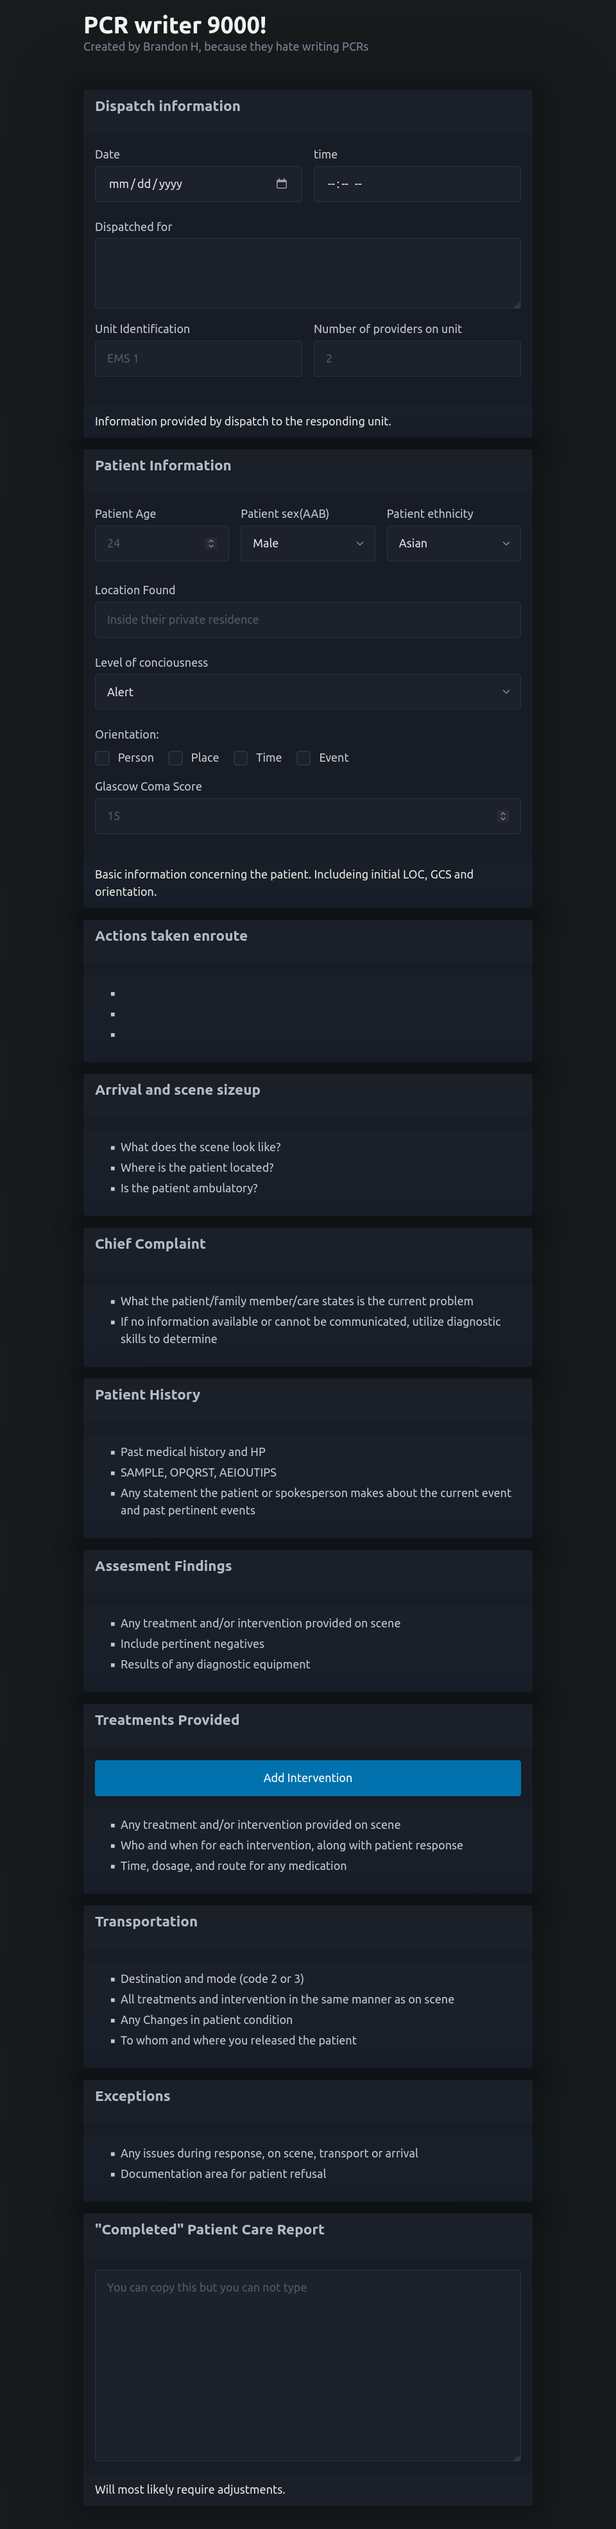
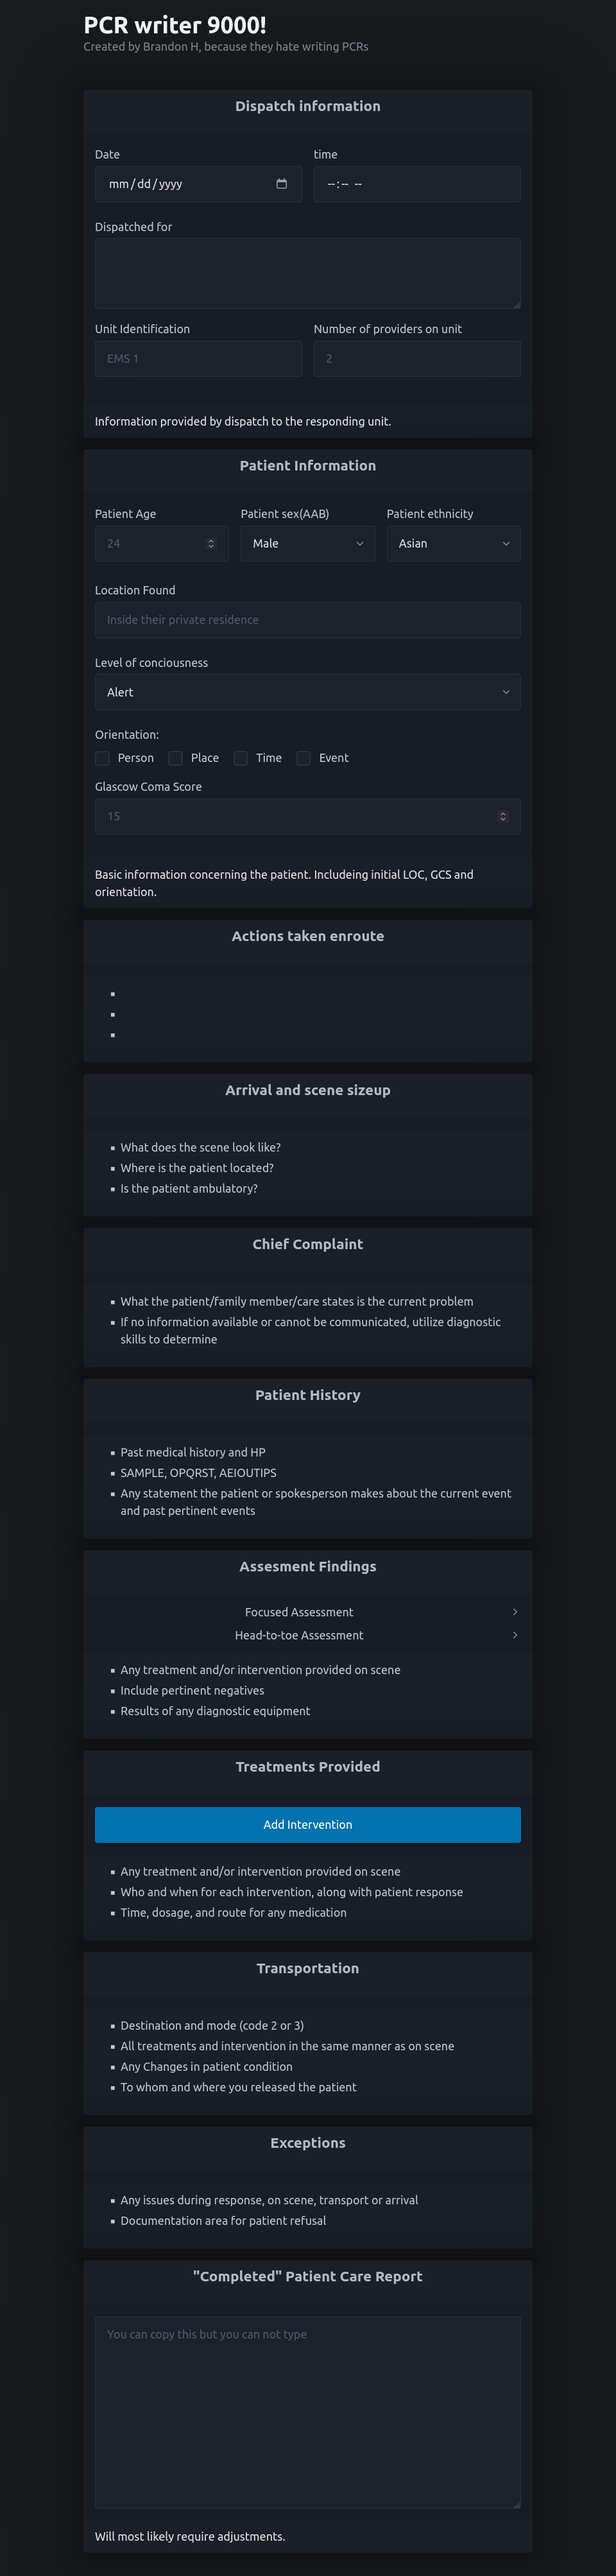
Development (#16)

diff --git a/src/index.html b/src/index.html
@@ -174,10 +174,38 @@ pertinent events</li>
         </footer>
       </article>
 
-      <article>
+      <article class="free_child">
         <header>
           <h4>Assesment Findings</h4>
         </header>
+          <details>
+            <summary>Focused Assessment</summary>
+            <p>...</p>
+          </details>
+          <details>
+            <summary>Head-to-toe Assessment</summary>
+            <ul>
+              <li>Scalp</li>
+              <li>Ears</li>
+              <li>Eyes</li>
+              <li>Nose</li>
+              <li>Mouth</li>
+              <li>Face</li>
+              <li>Cervical spine</li>
+              <li>Trachea</li>
+              <li>JVD</li>
+              <li>Clavicals</li>
+              <li>Chest inspection</li>
+              <li>Chest palpation</li>
+              <li>Abdomen</li>
+              <li>Pelvis</li>
+              <li>Right Leg</li>
+              <li>Left Leg</li>
+              <li>Right Arm</li>
+              <li>Left Arm</li>
+              <li>Back</li>
+            </ul>
+          </details>
         <footer>
           <ul>
             <li>Any treatment and/or intervention provided on scene</li>

diff --git a/src/styles.css b/src/styles.css
@@ -6,6 +6,16 @@
   grid-template-columns: repeat(2, 1fr);
   grid-column-gap: 21px;
 }
+.free_child{
+  grid-column: 1/-1;
+}
+
+.centered_text {
+  text-align: center;
+}
+h4, summary{
+  text-align: center;
+}
 
 @media (max-width: 1024px) {
   .parent {
